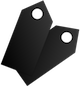
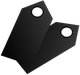
Change layout

diff --git a/app/assets/stylesheets/custom.css.scss b/app/assets/stylesheets/custom.css.scss
@@ -101,21 +101,19 @@ body{
 
 .step1picture{
 	padding-bottom: 7px;
-	width:135px;
-	margin-left: 80px;
+	width:85px;
+	margin-left: 90px;
 	margin-top: 3px;
 }
 
 .step2picture{
 	width:110px;
 	margin-left: 90px;
-	height:85px;
 }
 
 .step3picture{
 	width:100px;
 	margin-left: 90px;
-	height: 85px;
 }
 .stepquote{
 	font-family:Arial, Helvetica, sans-serif;
